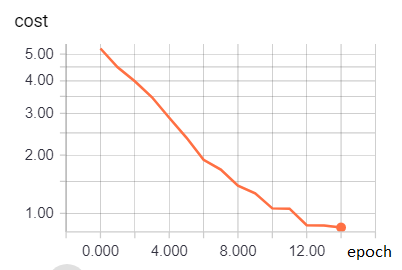
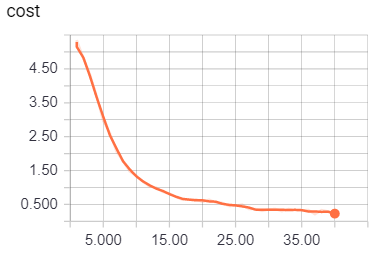
increase to 40 epochs

diff --git a/model.py b/model.py
@@ -151,7 +151,7 @@ class VietOcr:
                 avg_cost += c / total_batch
 
             if self.log:
-                self.train_writer.add_summary(summary, epoch)
+                self.train_writer.add_summary(summary, epoch + 1)
 
             print('Epoch:', '%02d' % (epoch + 1), 'cost =', '{:.9f}'.format(avg_cost))
 

diff --git a/train.py b/train.py
@@ -6,6 +6,6 @@ if __name__ == '__main__':
 
     vocr = VietOcr(weights=None, sess=sess)
 
-    vocr.train(learning_rate=0.001, training_epochs=15, batch_size=1000, keep_prob=0.7)
+    vocr.train(learning_rate=0.001, training_epochs=40, batch_size=1000, keep_prob=0.7)
 
     vocr.evaluate(batch_size=1000, keep_prob=1)

diff --git a/README.md b/README.md
@@ -35,25 +35,15 @@ PIL
 ![](data/cost.png)
 ```
 Training...
-Epoch: 01 cost = 6.772273257
-Epoch: 02 cost = 4.885908848
-Epoch: 03 cost = 4.292183308
-Epoch: 04 cost = 3.791747945
-Epoch: 05 cost = 3.244293085
-Epoch: 06 cost = 2.757302330
-Epoch: 07 cost = 2.223773586
-Epoch: 08 cost = 1.844299474
-Epoch: 09 cost = 1.571607014
-Epoch: 10 cost = 1.377784024
-Epoch: 11 cost = 1.216272550
-Epoch: 12 cost = 1.091827986
-Epoch: 13 cost = 0.973539455
-Epoch: 14 cost = 0.879507029
-Epoch: 15 cost = 0.813665386
+
+......
+Epoch: 38 cost = 0.312853018
+Epoch: 39 cost = 0.298816641
+Epoch: 40 cost = 0.293328794
 
 Evaluation
 ------------------------------
-Test Accuracy: 0.927347593306
+Test Accuracy: 0.974867469544
 ```
 
 
